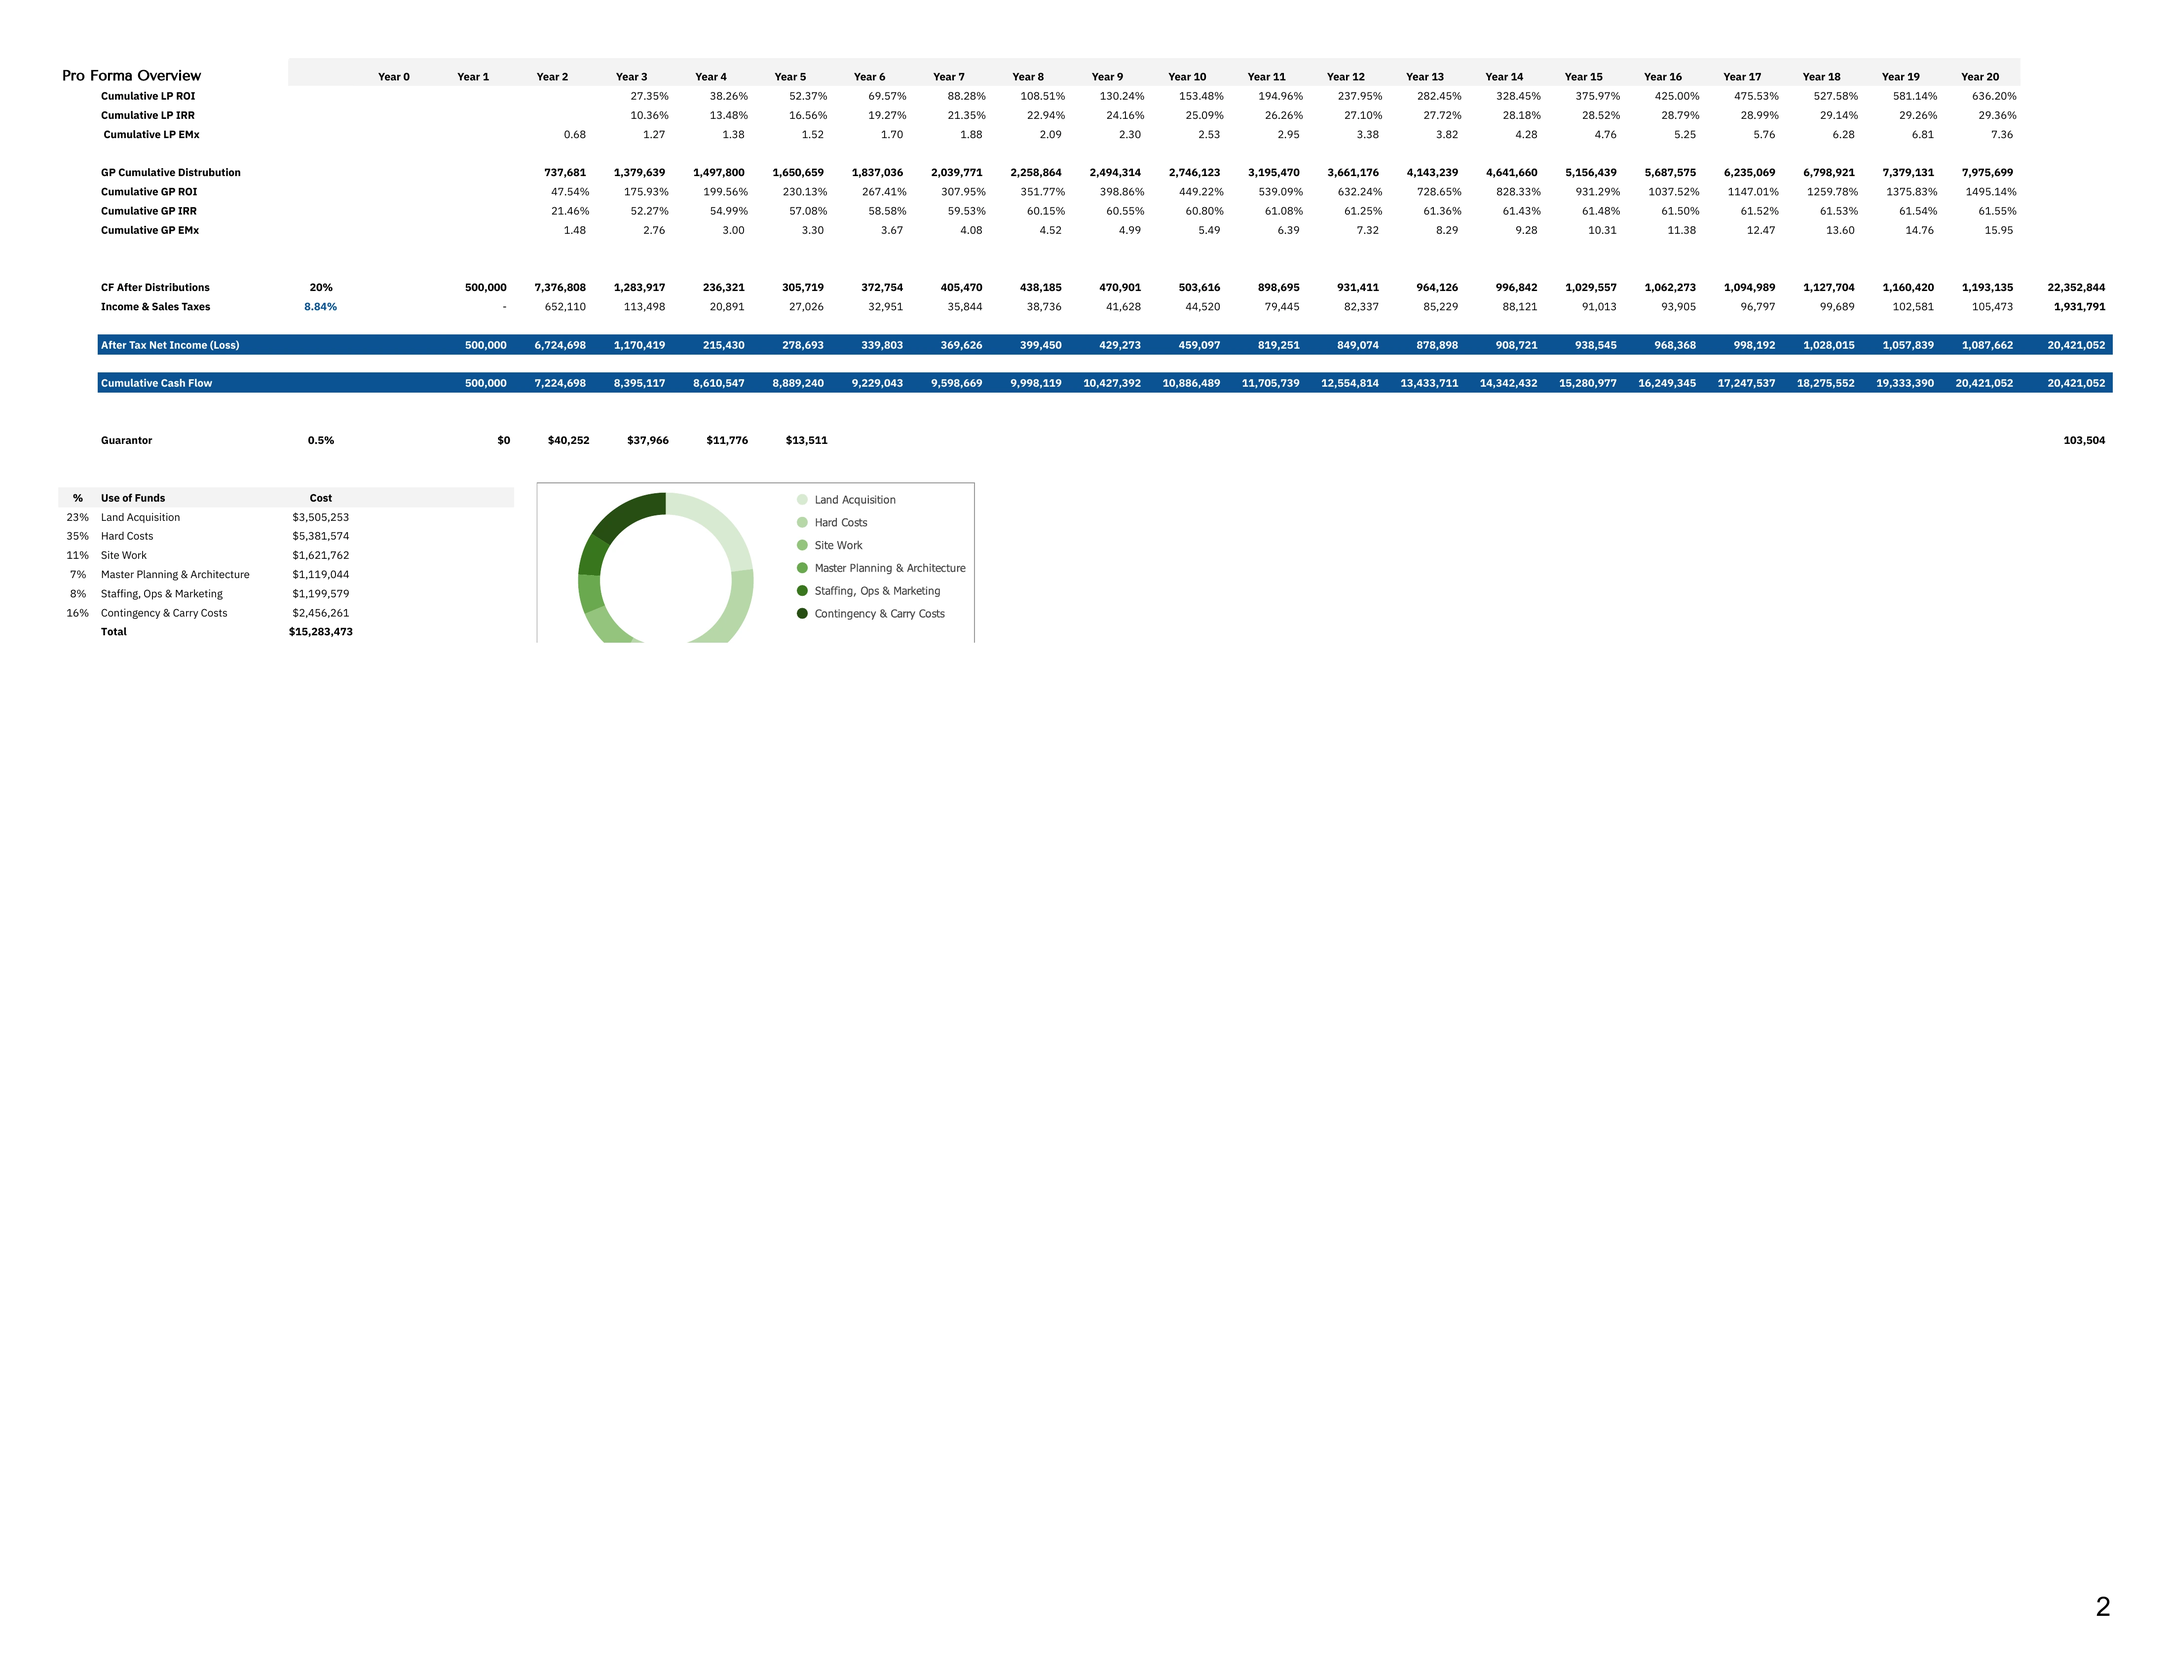
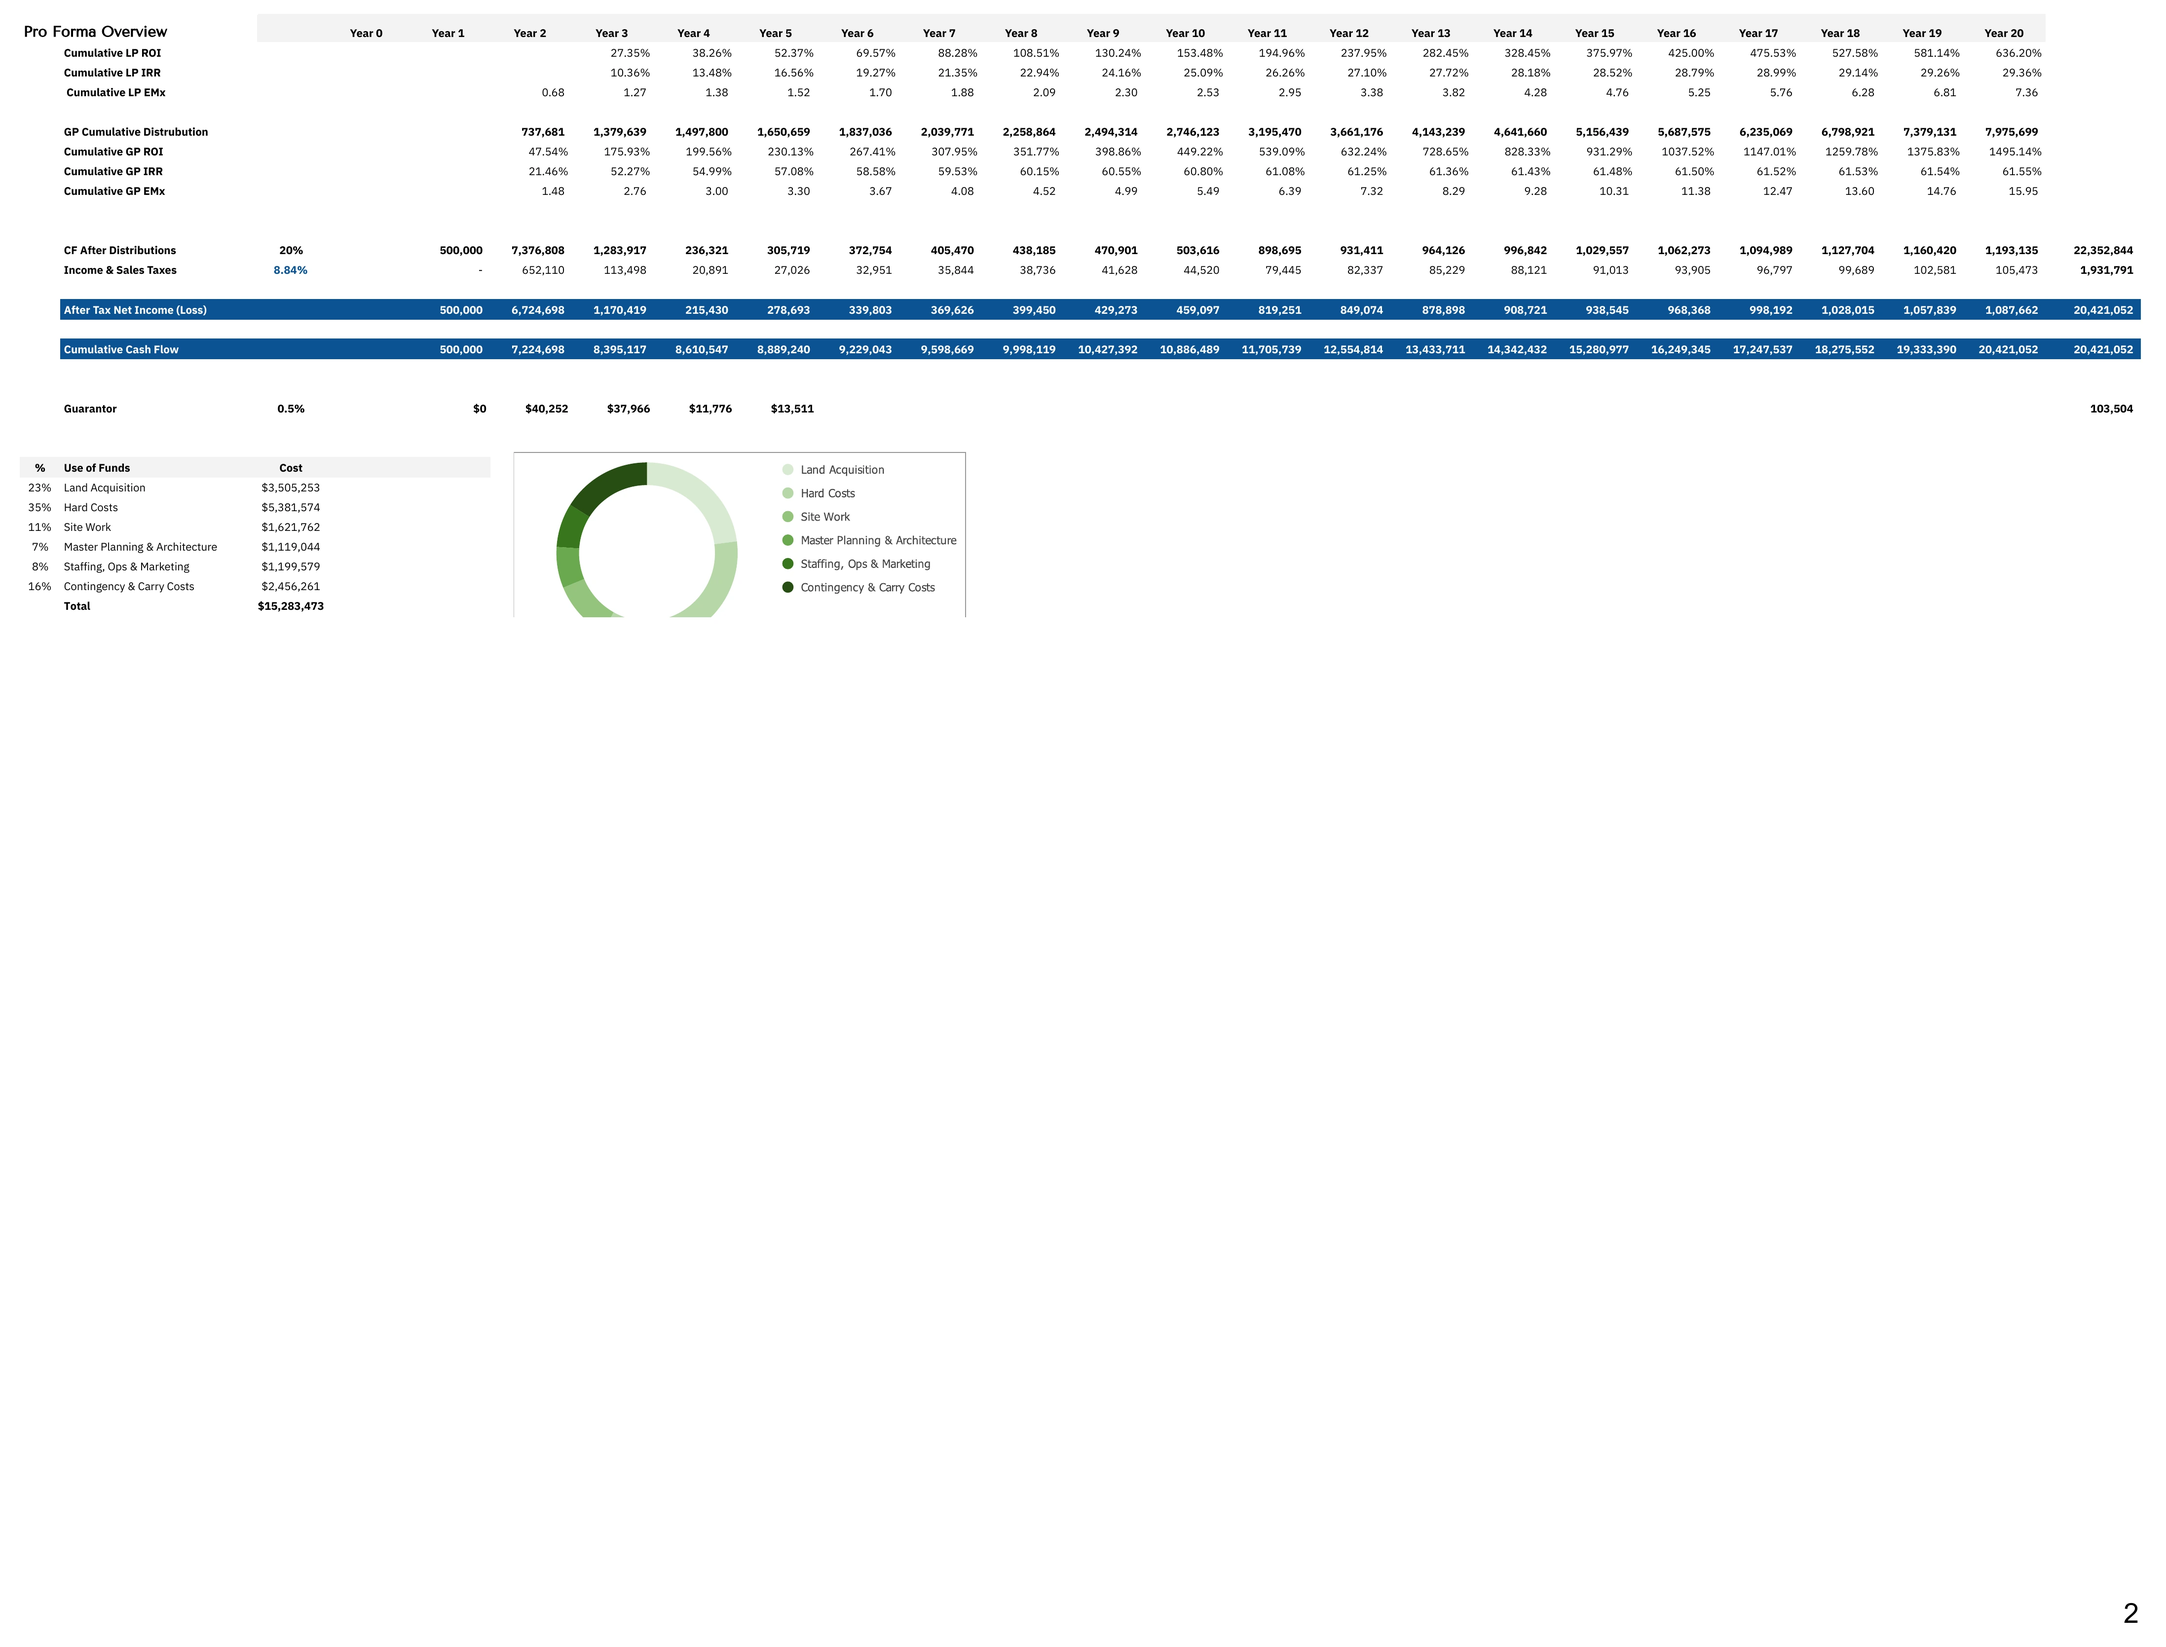
fix: crop page margins and render Phase 1 model pages at ~15MP for sharp mobile zoom

Changed region(s): [[0.0312, 0.0, 0.9986, 0.2493], [0.2497, 0.2804, 0.4369, 0.405], [0.0312, 0.2804, 0.156, 0.3739]]

diff --git a/src/app/data-room/view/[...slug]/page.tsx b/src/app/data-room/view/[...slug]/page.tsx
@@ -67,21 +67,21 @@ const PAGE_DOCS: Record<string, { category: string; pages: PageImage[] }> = {
   'financial/phase-1-financial-model': {
     category: 'Financial Model',
     pages: [
-      { src: '/data-room/files/phase-1-financial-model/page-01.webp', width: 2550, height: 3300 },
-      { src: '/data-room/files/phase-1-financial-model/page-02.webp', width: 4400, height: 3400 },
-      { src: '/data-room/files/phase-1-financial-model/page-03.webp', width: 4400, height: 3400 },
-      { src: '/data-room/files/phase-1-financial-model/page-04.webp', width: 4400, height: 3400 },
-      { src: '/data-room/files/phase-1-financial-model/page-05.webp', width: 2550, height: 3300 },
-      { src: '/data-room/files/phase-1-financial-model/page-06.webp', width: 2550, height: 3300 },
-      { src: '/data-room/files/phase-1-financial-model/page-07.webp', width: 2550, height: 3300 },
-      { src: '/data-room/files/phase-1-financial-model/page-08.webp', width: 2550, height: 3300 },
-      { src: '/data-room/files/phase-1-financial-model/page-09.webp', width: 2550, height: 3300 },
-      { src: '/data-room/files/phase-1-financial-model/page-10.webp', width: 2550, height: 3300 },
-      { src: '/data-room/files/phase-1-financial-model/page-11.webp', width: 4400, height: 3400 },
-      { src: '/data-room/files/phase-1-financial-model/page-12.webp', width: 4400, height: 3400 },
-      { src: '/data-room/files/phase-1-financial-model/page-13.webp', width: 4400, height: 3400 },
-      { src: '/data-room/files/phase-1-financial-model/page-14.webp', width: 4400, height: 3400 },
-      { src: '/data-room/files/phase-1-financial-model/page-15.webp', width: 4400, height: 3400 },
+      { src: '/data-room/files/phase-1-financial-model/page-01.webp', width: 3602, height: 4429 },
+      { src: '/data-room/files/phase-1-financial-model/page-02.webp', width: 4397, height: 3349 },
+      { src: '/data-room/files/phase-1-financial-model/page-03.webp', width: 4394, height: 3338 },
+      { src: '/data-room/files/phase-1-financial-model/page-04.webp', width: 4390, height: 3338 },
+      { src: '/data-room/files/phase-1-financial-model/page-05.webp', width: 3501, height: 4552 },
+      { src: '/data-room/files/phase-1-financial-model/page-06.webp', width: 3501, height: 4565 },
+      { src: '/data-room/files/phase-1-financial-model/page-07.webp', width: 3435, height: 4641 },
+      { src: '/data-room/files/phase-1-financial-model/page-08.webp', width: 3517, height: 4530 },
+      { src: '/data-room/files/phase-1-financial-model/page-09.webp', width: 3501, height: 4556 },
+      { src: '/data-room/files/phase-1-financial-model/page-10.webp', width: 3501, height: 4556 },
+      { src: '/data-room/files/phase-1-financial-model/page-11.webp', width: 4391, height: 3308 },
+      { src: '/data-room/files/phase-1-financial-model/page-12.webp', width: 4391, height: 3320 },
+      { src: '/data-room/files/phase-1-financial-model/page-13.webp', width: 4398, height: 3350 },
+      { src: '/data-room/files/phase-1-financial-model/page-14.webp', width: 4392, height: 3379 },
+      { src: '/data-room/files/phase-1-financial-model/page-15.webp', width: 4392, height: 3411 },
     ],
   },
 }
